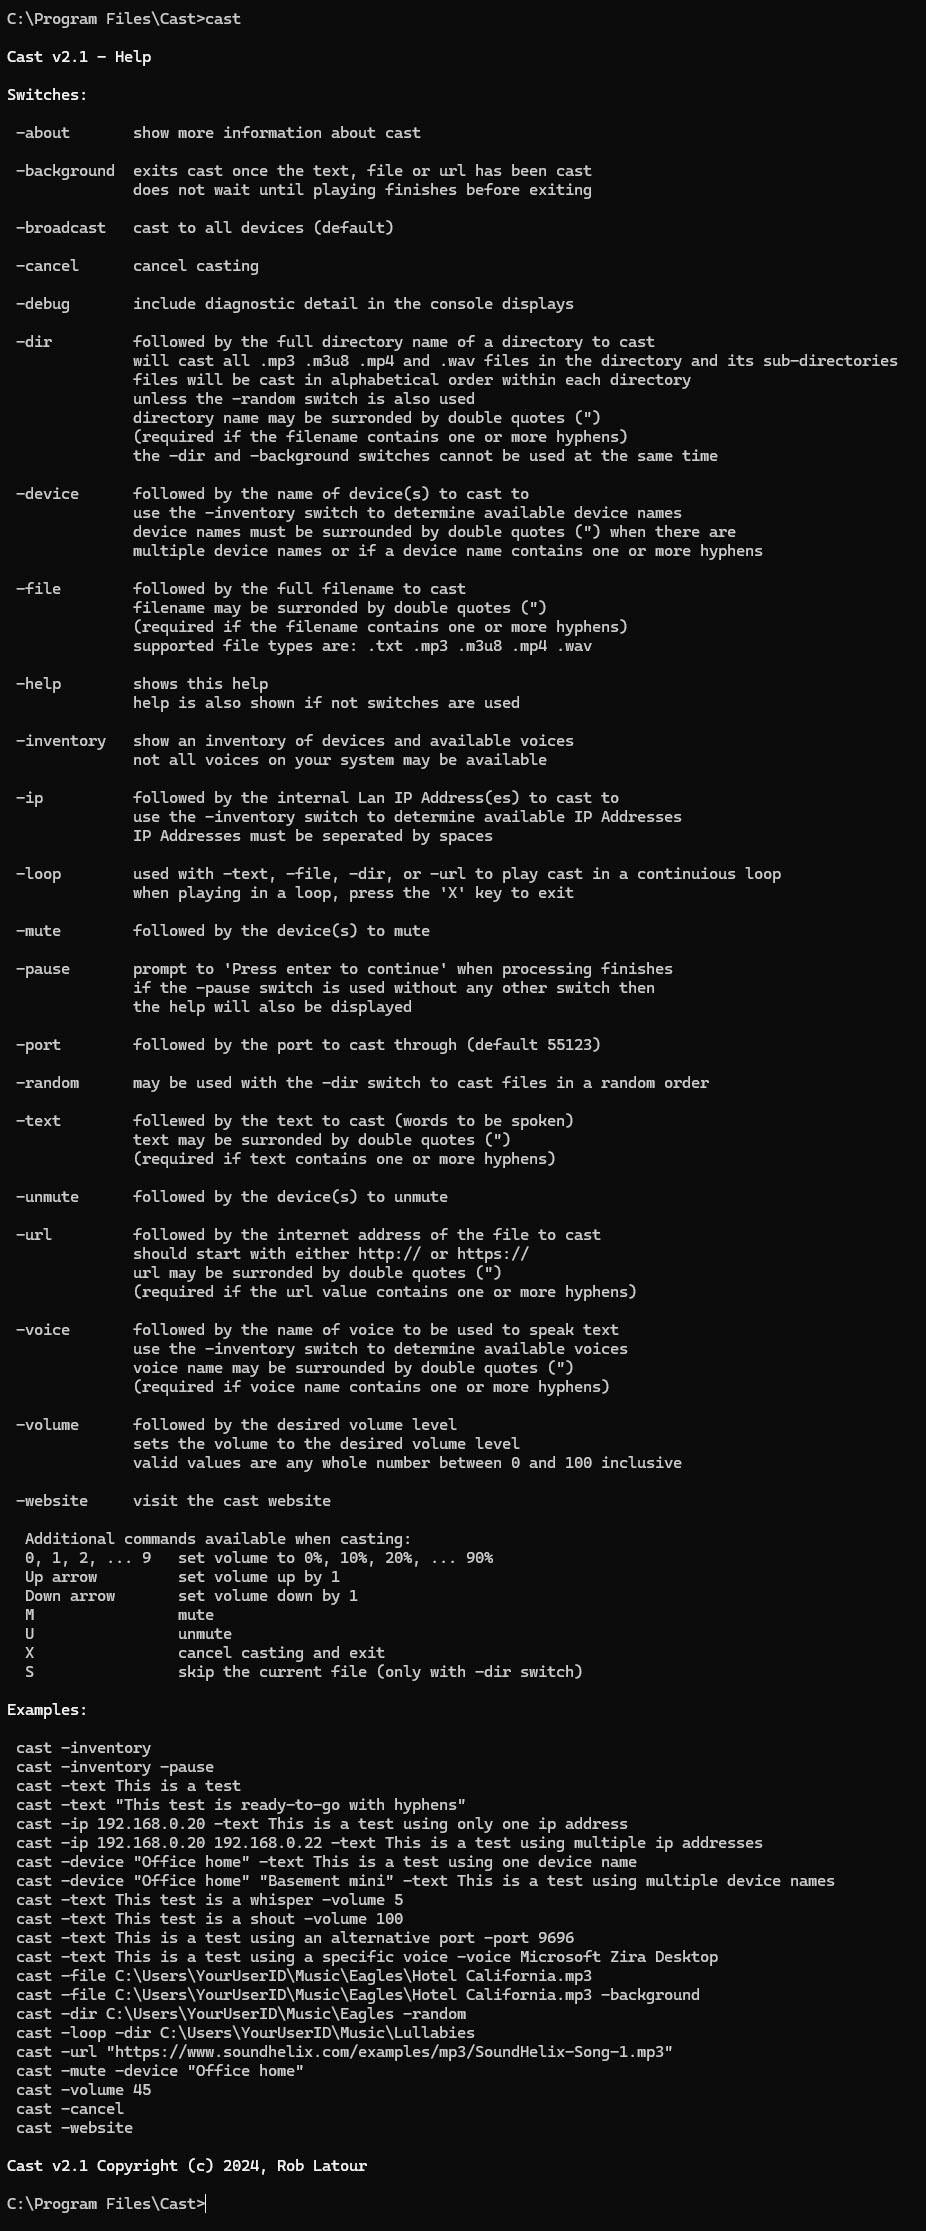
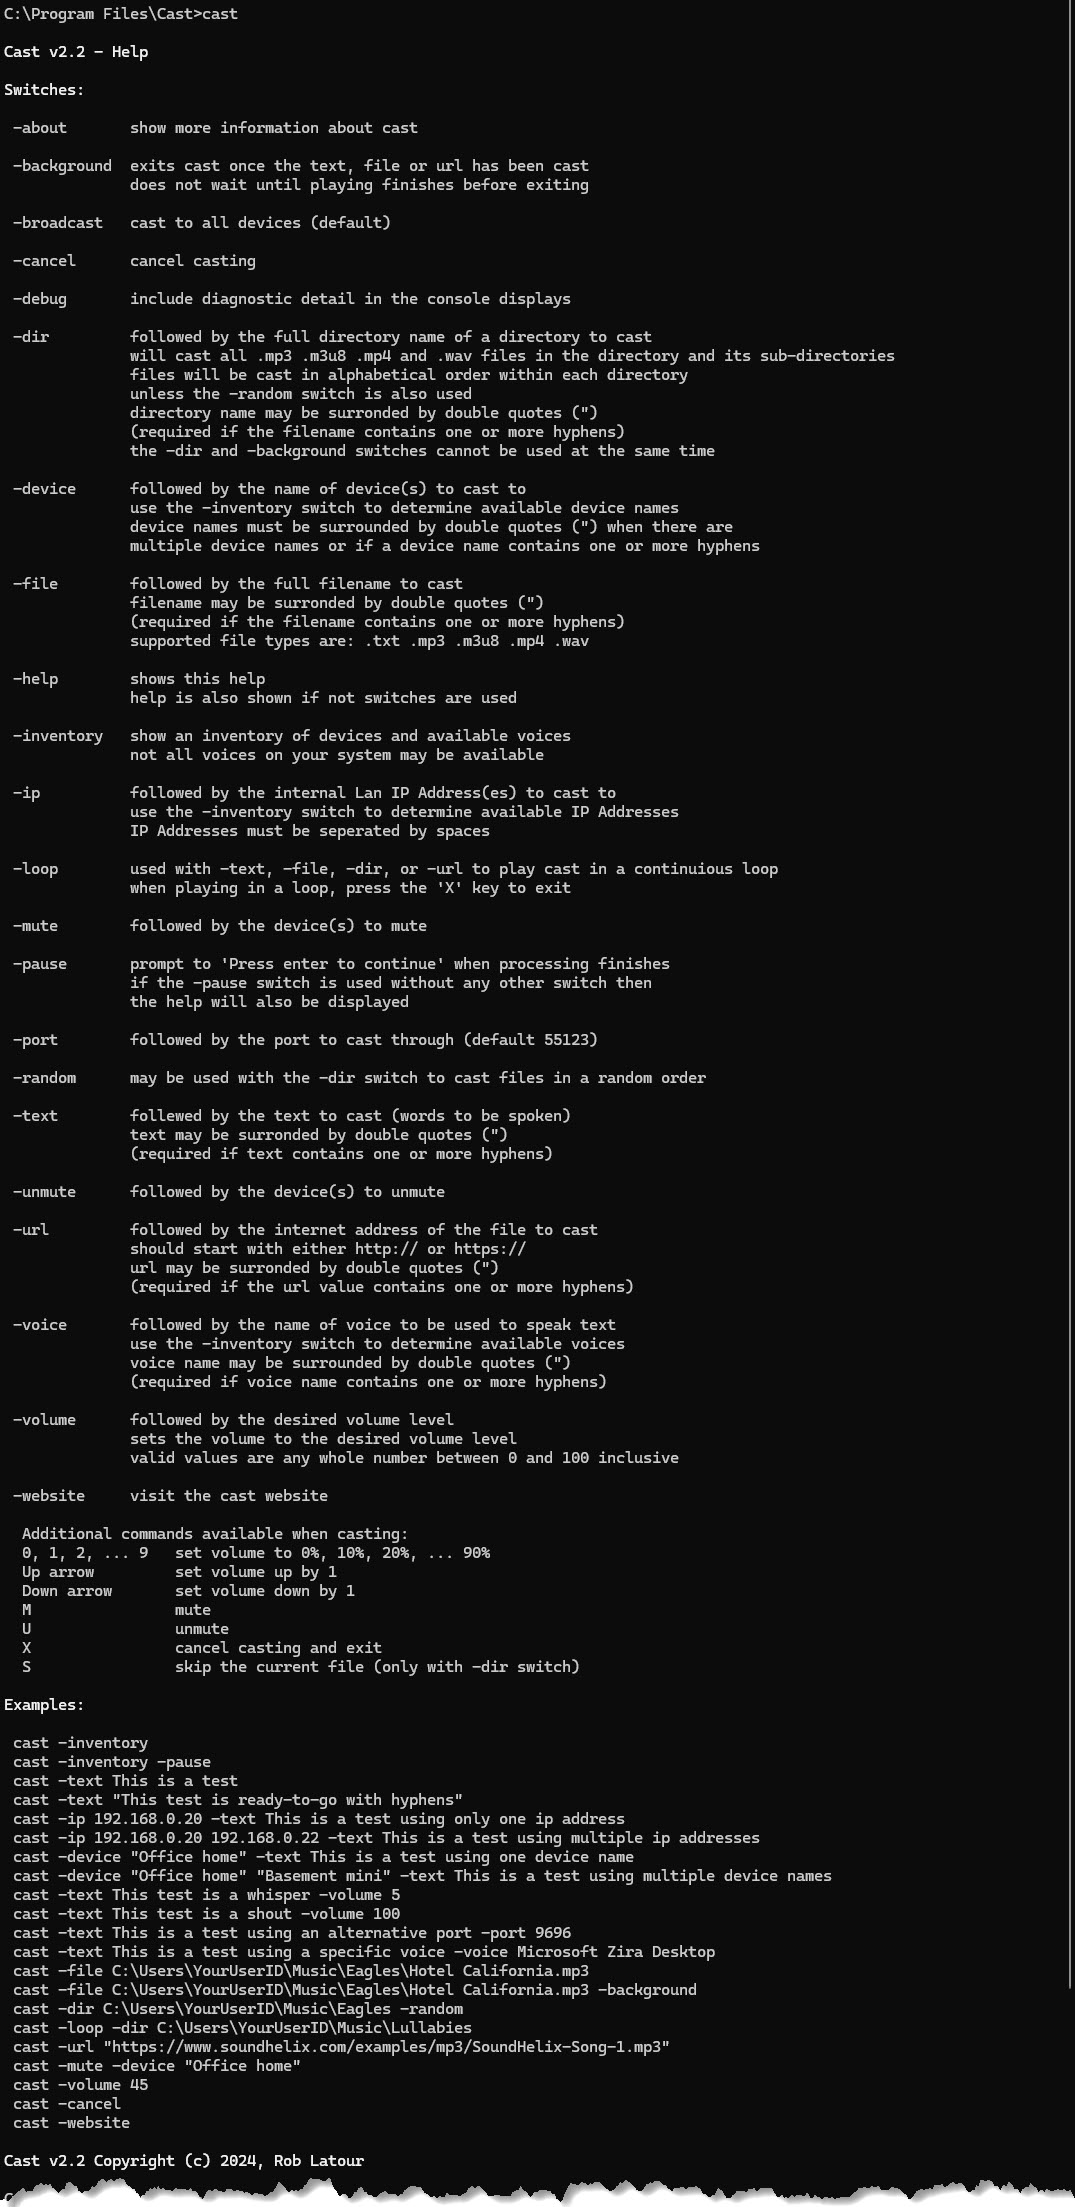
Migrate website to github

diff --git a/README.md b/README.md
@@ -1,5 +1,5 @@
 # Cast 
-(version 2.1, released November 24, 2024)
+(version 2.2, released December 4, 2024)
 ***
 
 Cast is an open source Windows command line utility which lets you send text (as spoken words), music, or videos to your Google Assistant (Home, Mini, Max, or Nest), a Chromecast enabled device (like your TV), or PC Speakers.
